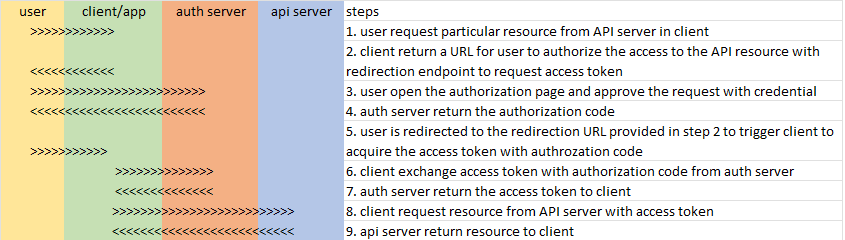
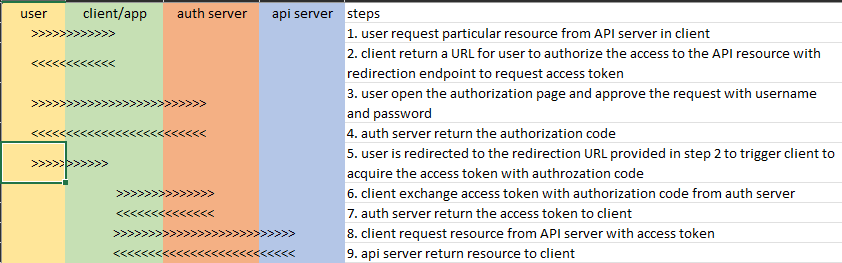
chore: improve readme

diff --git a/README.md b/README.md
@@ -8,6 +8,7 @@ to simulate the server side application oauth2 authorization flow. More referenc
 
 ## Flow to retrieve 
 ![authorization flow chart](docs/flow.png)
+note: username and password are both "admin" for authorization
 
 ## Prepare Environment
 Ensure python3.9 or above is available in your environment
@@ -42,3 +43,12 @@ Follow the commands below to launch the servers in separate terminals
     uvicorn api_server:app --reload --port 8002
     ```
 
+## Work to complete this prototype
+Since this is a prototype, there are several points below need to be completed if this authorization service is put into real use. **Currently neither authorization code or access code has expiration time**.  
+- Include expiration time in encoding to produce authorization code, and disable authorization code when it expires.
+- Apply safer encryption to generate authorization code
+- Implement access code management by specific scheme. This scheme should specify how to
+    - generate the access code
+    - share the access code between auth_server and api_server
+    - disable it when it expire
+- (Optional) Create mapping among user, client and api resource
